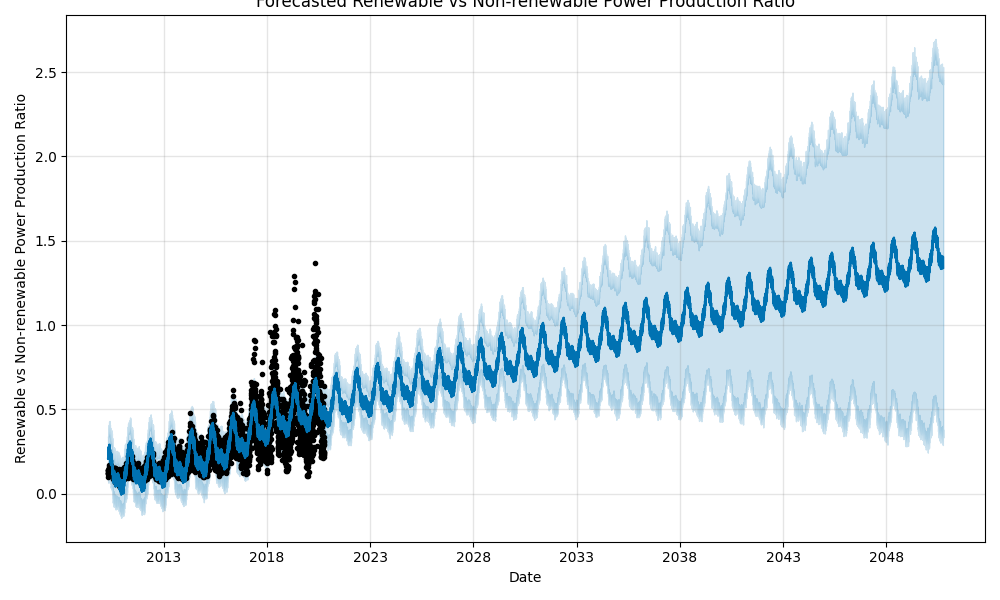
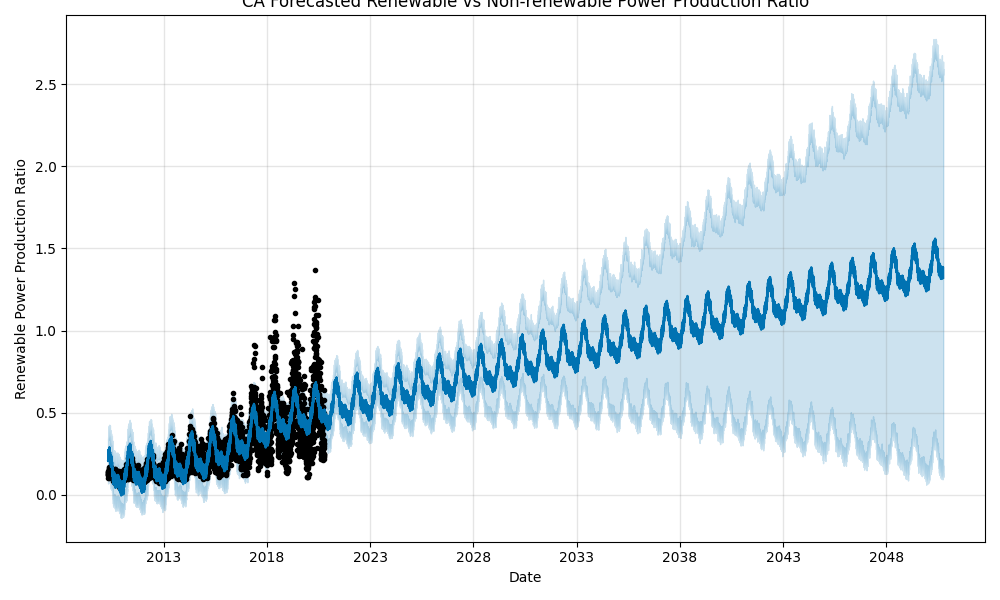
Pass predictions to visualization step

diff --git a/model.py b/model.py
@@ -7,6 +7,7 @@ from math import sqrt
 import numpy as np
 import datetime
 from kale.sdk import step
+import os
 
 @step(name='prophet_build')
 def buildProphet(train_data_path, test_data_path):
@@ -16,6 +17,7 @@ def buildProphet(train_data_path, test_data_path):
     from fbprophet import Prophet
     from sklearn import metrics, ensemble, model_selection
     from math import sqrt
+    import os
     
     # load data
     print("Building Prophet model ...")
@@ -38,7 +40,8 @@ def buildProphet(train_data_path, test_data_path):
     plt.subplot(2, 1, 2)
     sns.boxplot(hour, y)
     plt.title('Renewable vs Non-renewable Power Production Ratio grouped by Hour')
-    plt.savefig('/tmp/renewable-ratio-history.png')
+    wd = os.path.dirname(train_data_path)
+    plt.savefig(wd + '/renewable-ratio-history.png')
     #plt.show()
 
     # Predict future renewable energy production using Prophet
@@ -53,7 +56,7 @@ def buildProphet(train_data_path, test_data_path):
     plt.title('Forecasted Renewable vs Non-renewable Power Production Ratio')
     axes = plt.gca()
     print('Future Renewable vs Non-renewable Power Production Ratio')
-    figR.savefig('/tmp/renewable-ratio-forecast.png')
+    figR.savefig(wd + '/renewable-ratio-forecast.png')
 
     # Caluclate prediction accuracy
     rmse = -1.0
@@ -86,16 +89,17 @@ def predictProphet(data_path,periods):
     m = Prophet(daily_seasonality=False)
     m.fit(dd)
     future=m.make_future_dataframe(periods=periods)
-    print(str.format("Predicting with prophet model for {0} days ({1} years) ...",periods, periods/365))
+    print(str.format("\nPredicting with prophet model for {0} days ({1} years) ...",periods, int(periods/365)))
     forecast=m.predict(future)
     fig = m.plot(forecast,ylabel='Renewable Power Production Ratio', xlabel='Date')
     plt.title('CA Forecasted Renewable vs Non-renewable Power Production Ratio')
     axes = plt.gca()
     print('CA Future Renewable vs Non-renewable Power Production Ratio')
-    fig.savefig('/tmp/renewable-ratio-forecast.png')
+    wd = os.path.dirname(data_path)
+    fig.savefig(wd + '/renewable-ratio-forecast.png')
     forecast.rename(columns={'ds':'TIMESTAMP'}, inplace=True)
     forecast.set_index('TIMESTAMP',inplace=True)
-    prediction = pd.DataFrame({'RENEWABLES_RATIO_MEAN':forecast['yhat'].resample('1Y').mean(),'RENEWABLE_RATIO_LOWER':forecast['yhat_lower'].resample('1Y').mean(),'RENEWABLE_RATIO_UPPER':forecast['yhat_upper'].resample('1Y').mean()})
+    prediction = pd.DataFrame({'RENEWABLES_RATIO_MEAN':forecast['yhat'].resample('1Y').mean(),'RENEWABLES_RATIO_LOWER':forecast['yhat_lower'].resample('1Y').mean(),'RENEWABLES_RATIO_UPPER':forecast['yhat_upper'].resample('1Y').mean()})
     return prediction
 
 def rmse(actual,predict):
@@ -197,7 +201,7 @@ def predictRandomForestRegression(data_path,periods):
     best_model_min = gsearch_min.best_estimator_
     best_model_max = gsearch_max.best_estimator_
     
-    print("Predicting with Random Forest regressor ...")
+    print("\nPredicting with Random Forest regressor ...")
     prediction = pd.DataFrame(columns=['TIMESTAMP','RENEWABLES_RATIO'])
     l = len(x_train)
     x_pred = x_train.iloc[[l-1]]
@@ -216,7 +220,7 @@ def predictRandomForestRegression(data_path,periods):
         ymini_pred = best_model.predict(xmini_pred)
         xmaxi_pred = pd.DataFrame({'YESTERDAY':ymax_pred,'YESTERDAY_DIFF':ymax_pred-xmax_pred['YESTERDAY'],'YESTERDAY-1':xmax_pred['YESTERDAY'],'YESTERDAY-1_DIFF':xmax_pred['YESTERDAY_DIFF']})
         ymaxi_pred = best_model.predict(xmaxi_pred)
-        prediction = prediction.append({'TIMESTAMP':ti,'RENEWABLES_RATIO':yi_pred[0],'RENEWABLES_RATIO_MIN':ymini_pred[0],'RENEWABLES_RATIO_MAX':ymaxi_pred[0]}, ignore_index=True)
+        prediction = prediction.append({'TIMESTAMP':ti,'RENEWABLES_RATIO_MEAN':yi_pred[0],'RENEWABLES_RATIO_LOWER':ymini_pred[0],'RENEWABLES_RATIO_UPPER':ymaxi_pred[0]}, ignore_index=True)
         x_pred = xi_pred
         y_pred = yi_pred
         xmin_pred = xmini_pred
@@ -230,7 +234,8 @@ def predictRandomForestRegression(data_path,periods):
     p = prediction.plot()
     p.set_title('CA Predicted Renewables Ratio by Random Forest Regression')
     p.set_ylabel('RATIO')
-    plt.savefig('/tmp/renewables-ratio-forecast-rf.png')
+    wd = os.path.dirname(data_path)
+    plt.savefig(wd + '/renewables-ratio-forecast-rf.png')
 
     return prediction
 
@@ -245,16 +250,21 @@ def predictWithBestModel(prophet_rmse, randomforest_rmse, preprocessed_data_path
         print("The best model is RandomForestRegression")
         prediction = predictRandomForestRegression(preprocessed_data_path,12*30)
         
-    visualizePrediction(prediction)
-    return True
+#    visualizePrediction(prediction)
+    return prediction
 
-#@step( name = 'visualize_prediction')
+@step( name = 'visualize_prediction')
 def visualizePrediction(prediction):
+    import pandas as pd
     print("Visualizing prediction ...")
     print("Prediction:")
     print(prediction)
     
     prediction.reset_index(inplace=True)
     print("\nPrediction for CA Renewables Ratio in Key Years:")
-    print(prediction[prediction['TIMESTAMP'] == pd.to_datetime('12-31-2030')])
-    print(prediction[prediction['TIMESTAMP'] == pd.to_datetime('12-31-2045')])
+    prediction2030 = prediction[prediction['TIMESTAMP'] == pd.to_datetime('12-31-2030')]
+    prediction2045 = prediction[prediction['TIMESTAMP'] == pd.to_datetime('12-31-2045')]
+    print(str.format("   Prophet prediction 12/31/2030:"))
+    print(str.format("      low: {:.2f}, mean: {:.2f}, high: {:.2f}",prediction2030['RENEWABLES_RATIO_LOWER'].values[0],prediction2030['RENEWABLES_RATIO_MEAN'].values[0],prediction2030['RENEWABLES_RATIO_UPPER'].values[0]))
+    print(str.format("   Prophet prediction 12/31/2045:"))
+    print(str.format("      low: {:.2f}, mean: {:.2f}, high: {:.2f}",prediction2045['RENEWABLES_RATIO_LOWER'].values[0],prediction2045['RENEWABLES_RATIO_MEAN'].values[0],prediction2045['RENEWABLES_RATIO_UPPER'].values[0]))

diff --git a/main.py b/main.py
@@ -13,8 +13,8 @@ def renewable_energy_pipeline(wd = '.', wrangle_cache = True, preprocess_cache =
     train_data_path, test_data_path = split(preprocessed_data_path, train_pct)
     prophet_rmse, prophet_r2score = buildProphet(train_data_path, test_data_path)
     randomforest_rmse, randomforest_r2score = buildRandomForestRegression(train_data_path, test_data_path)
-    predictWithBestModel(prophet_rmse, randomforest_rmse, preprocessed_data_path)
-    #visualizePrediction(prediction)
+    prediction = predictWithBestModel(prophet_rmse, randomforest_rmse, preprocessed_data_path)
+    visualizePrediction(prediction)
     
 def main(argv):
     print("Running renewable energy project ... ")
